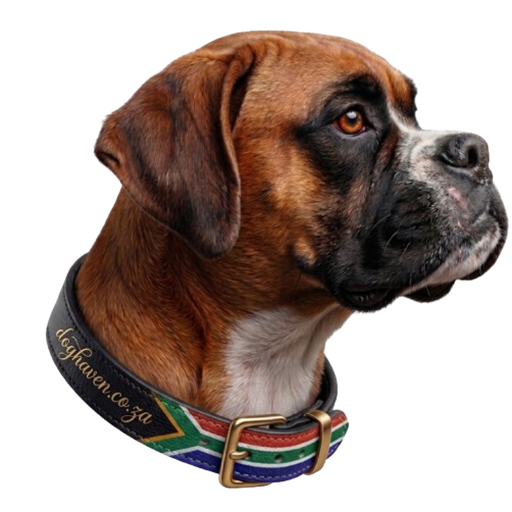
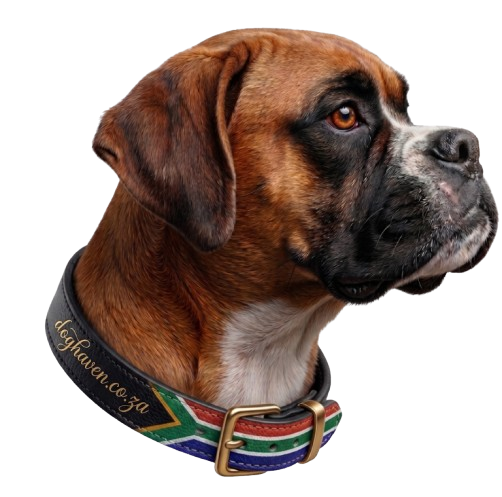
Refine DogHaven visual branding

diff --git a/src/app/globals.css b/src/app/globals.css
@@ -5,6 +5,15 @@
 :root {
   color-scheme: light;
   background: #fffdf7;
+  --flag-red: rgba(222, 56, 49, 0.055);
+  --flag-blue: rgba(0, 35, 149, 0.055);
+  --flag-green: rgba(0, 122, 77, 0.095);
+  --flag-gold: rgba(255, 184, 28, 0.075);
+  --flag-black: rgba(0, 0, 0, 0.035);
+  --button-gold: #c7a85a;
+  --button-gold-hover: #b99a4f;
+  --button-green: #2f6f50;
+  --button-green-hover: #285f46;
 }
 
 * {
@@ -55,7 +64,51 @@ html {
 
 body {
   margin: 0;
-  background: #fffdf7;
+  background-color: #fffdf7;
+  background-image:
+    linear-gradient(rgba(255, 253, 247, 0.9), rgba(255, 253, 247, 0.9)),
+    linear-gradient(
+      145deg,
+      transparent 0%,
+      transparent 39%,
+      rgba(255, 255, 255, 0.28) 39%,
+      rgba(255, 255, 255, 0.28) 42%,
+      var(--flag-green) 42%,
+      var(--flag-green) 58%,
+      rgba(255, 255, 255, 0.26) 58%,
+      rgba(255, 255, 255, 0.26) 61%,
+      transparent 61%,
+      transparent 100%
+    ),
+    linear-gradient(
+      35deg,
+      transparent 0%,
+      transparent 40%,
+      var(--flag-gold) 40%,
+      var(--flag-gold) 45%,
+      var(--flag-black) 45%,
+      var(--flag-black) 55%,
+      var(--flag-gold) 55%,
+      var(--flag-gold) 60%,
+      transparent 60%,
+      transparent 100%
+    ),
+    linear-gradient(
+      180deg,
+      var(--flag-red) 0%,
+      var(--flag-red) 32%,
+      rgba(255, 255, 255, 0.18) 32%,
+      rgba(255, 255, 255, 0.18) 38%,
+      var(--flag-green) 38%,
+      var(--flag-green) 62%,
+      rgba(255, 255, 255, 0.18) 62%,
+      rgba(255, 255, 255, 0.18) 68%,
+      var(--flag-blue) 68%,
+      var(--flag-blue) 100%
+    );
+  background-attachment: fixed;
+  background-position: center;
+  background-size: cover;
   color: #000000;
   font-family: Arial, Helvetica, sans-serif;
   line-height: 1.5;
@@ -64,7 +117,7 @@ body {
 
 main {
   min-height: 100vh;
-  background: #fffdf7;
+  background: rgba(255, 253, 247, 0.72);
 }
 
 body > header {
@@ -72,7 +125,7 @@ body > header {
   top: 0;
   z-index: 9998;
   border-bottom: 1px solid rgba(11, 107, 69, 0.18);
-  background: rgba(255, 253, 247, 0.96);
+  background: rgba(255, 253, 247, 0.94);
   backdrop-filter: blur(14px);
 }
 
@@ -147,8 +200,8 @@ main > section:first-child {
   position: relative;
   overflow: hidden;
   background:
-    radial-gradient(circle at 18% 18%, rgba(214, 167, 47, 0.22), transparent 28%),
-    radial-gradient(circle at 86% 12%, rgba(11, 107, 69, 0.14), transparent 26%),
+    radial-gradient(circle at 18% 18%, rgba(199, 168, 90, 0.18), transparent 28%),
+    radial-gradient(circle at 86% 12%, rgba(47, 111, 80, 0.12), transparent 26%),
     linear-gradient(180deg, #ffffff 0%, #fffdf7 72%, rgba(0, 35, 149, 0.06) 100%);
 }
 
@@ -242,7 +295,7 @@ td {
 
 body > footer {
   border-top: 1px solid rgba(11, 107, 69, 0.22);
-  background: #ffffff;
+  background: rgba(255, 255, 255, 0.94);
   color: #000000;
 }
 
@@ -274,6 +327,34 @@ body > footer h2 {
   .section-title {
     font-size: 2.25rem;
   }
+}
+
+.bg-honey {
+  background-color: var(--button-gold) !important;
+}
+
+.hover\:bg-honey:hover {
+  background-color: var(--button-gold-hover) !important;
+}
+
+.bg-sage {
+  background-color: var(--button-green) !important;
+}
+
+.hover\:bg-sage:hover {
+  background-color: var(--button-green-hover) !important;
+}
+
+.hover\:bg-moss:hover {
+  background-color: #315f4b !important;
+}
+
+button,
+a[class*="bg-honey"],
+a[class*="bg-sage"],
+button[class*="bg-honey"],
+button[class*="bg-sage"] {
+  box-shadow: 0 10px 26px rgba(0, 0, 0, 0.08);
 }
 
 @media (min-width: 768px) {

diff --git a/tailwind.config.ts b/tailwind.config.ts
@@ -11,11 +11,11 @@ const config: Config = {
       colors: {
         cream: "#fffdf7",
         oat: "#e4e8e2",
-        cocoa: "#d6a72f",
+        cocoa: "#c29a3f",
         bark: "#000000",
-        sage: "#0b6b45",
-        moss: "#d6a72f",
-        honey: "#d6a72f",
+        sage: "#2f6f50",
+        moss: "#245f43",
+        honey: "#c7a85a",
         sky: "#d9e6f4",
         rose: "#f3ddd8",
       },